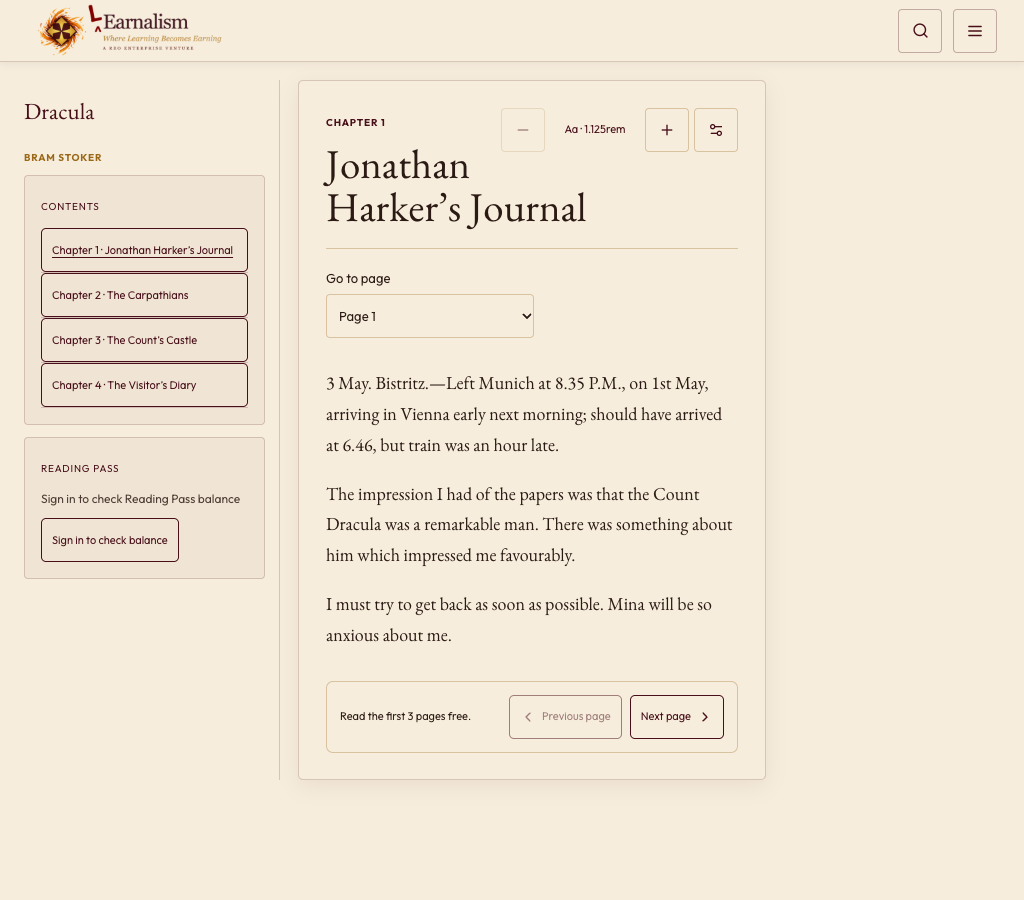
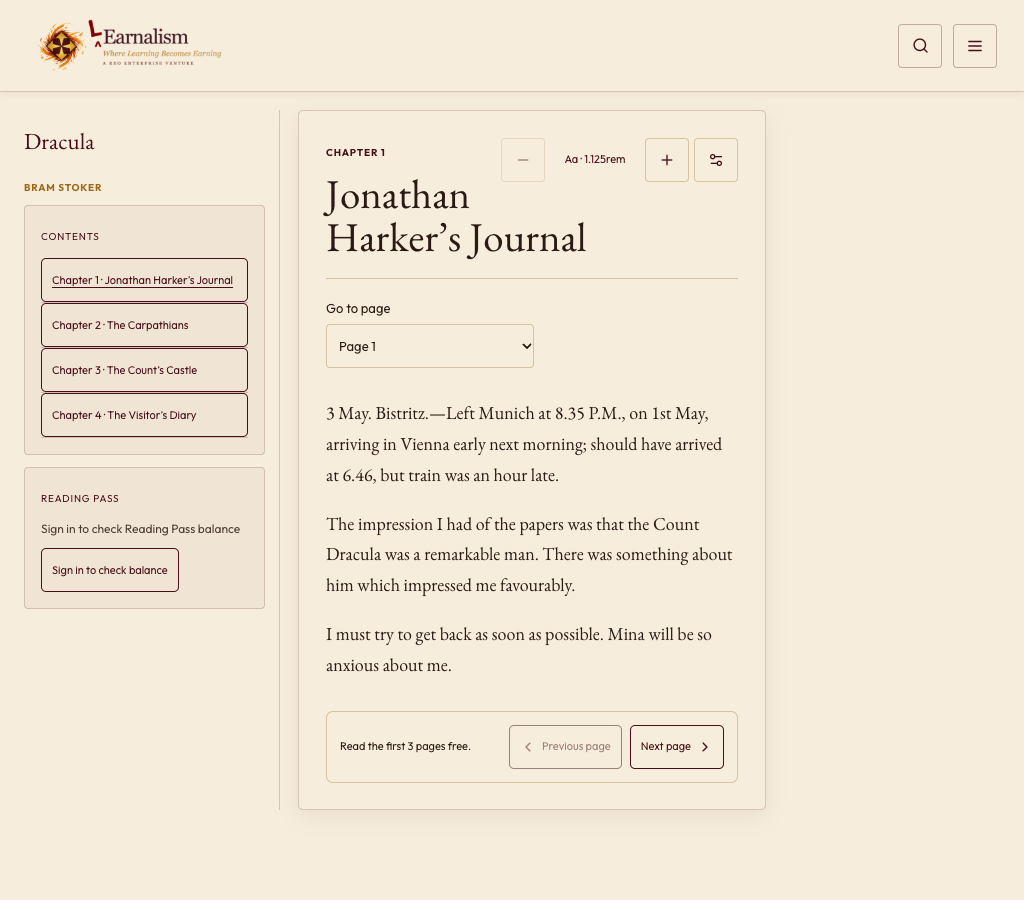
Refresh Reader Listener desktop header review evidence

diff --git a/frontend/uat/evidence/task-a-reader-listener/design-qa.md b/frontend/uat/evidence/task-a-reader-listener/design-qa.md
@@ -5,7 +5,7 @@
 ## Reference and implementation
 
 - Reference: `/Users/ronikbasak/Documents/ChatGPT Image Sep 29, 2026, 11_45_50 PM.png` (1536 × 1024 px).
-- Implementation began from merged PR471 `57237eb76c24022f02214ce08fd02b7869fe411` and is being rebased onto current main `5fd063f5e8d1d569c1d2917d21daa882d81b63d6` (PR472).
+- Implementation began from merged PR471 `57237eb76c24022f02214ce08fd02b7869fe411` and is now based on current main `e4109a1d173d3fb4928d2f59b5450f3aa2f81f71` (PR470 and PR472 included).
 - Screenshots and browser report: this directory. Browser capture used the repository Playwright smoke runner, Chromium, device scale factor 1, viewport screenshots (`fullPage: false`).
 - Screenshot inputs are local review fixtures. The Reader has public-domain Dracula chapter text and real book metadata; account progress and balance are omitted. The Listener uses the actual one-chapter A Ghost Story metadata and cover, with no approved audio, media URL, media element, or playback controls.
 
@@ -25,7 +25,7 @@ Both routes were captured at every requested CSS viewport: 1600 × 1000, 1440 ×
 
[4 lines of base64/hex data omitted]
 
 ## Verification
 
@@ -33,6 +33,6 @@ Both routes were captured at every requested CSS viewport: 1600 × 1000, 1440 ×
 - `npm run build --prefix frontend`: passed.
 - Static SEO verifier: 34/34 snapshots, 703 assertions, 0 failed.
 - `git diff --check`: passed.
-- Full visual smoke report after the 58 px correction: `visual-smoke-report.json`, 16/16 routes PASS. Refreshed viewport screenshots and `screenshots.sha256` are included.
+- Full visual smoke report after the desktop and mobile header corrections: `visual-smoke-report.json`, 16/16 routes PASS. Refreshed viewport screenshots and `screenshots.sha256` are included.
 
-An exact-head GitHub owner-review artifact was published for the prior candidate `8d44970ccabe8146c1b3538fd4ae1dd18630f908`: artifact `pr473-fresh-mobile-header-menu-review-8d44970ccabe8146c1b3538fd4ae1dd18630f908` (run 36685329332). Exact-head review will be regenerated for the corrected candidate. The current-head seamless-brand workflow exposed Reader and Listener lockup bounding boxes 0.69 px above the top edge at mobile 100% zoom, caused by their 56 px mastheads being shorter than the 56.39 px canonical lockup. Both mobile mastheads now use 58 px. The Reader high-zoom gate passes all 23 assertions, and the experience/footer zoom gate passes all 24 assertions against corrected fixture builds. Current main used the shared 72 px mobile masthead, so both were Task A regressions. This is not a production deployment or release approval; audiobook release remains fail-closed.
+An exact-head GitHub owner-review artifact exists for an earlier candidate but is stale after rebasing and the visual fixes; exact-head review must be regenerated. Browser comparison against `e4109a1` exposed logo clipping in three desktop states: the new Reader and Listener headers were 62 px tall around a 79.91 px official lockup. Both desktop headers now use 92 px, matching the shared header contract; mobile remains 58 px. Focused Chromium captures show all three affected states with `logo.clipped=false`; the full exact-head matrix and durable artifact are pending. The prior mobile correction also remains: 58 px avoids top-edge clipping at 390 px and 320 px. This is not a production deployment or release approval; audiobook release remains fail-closed.
